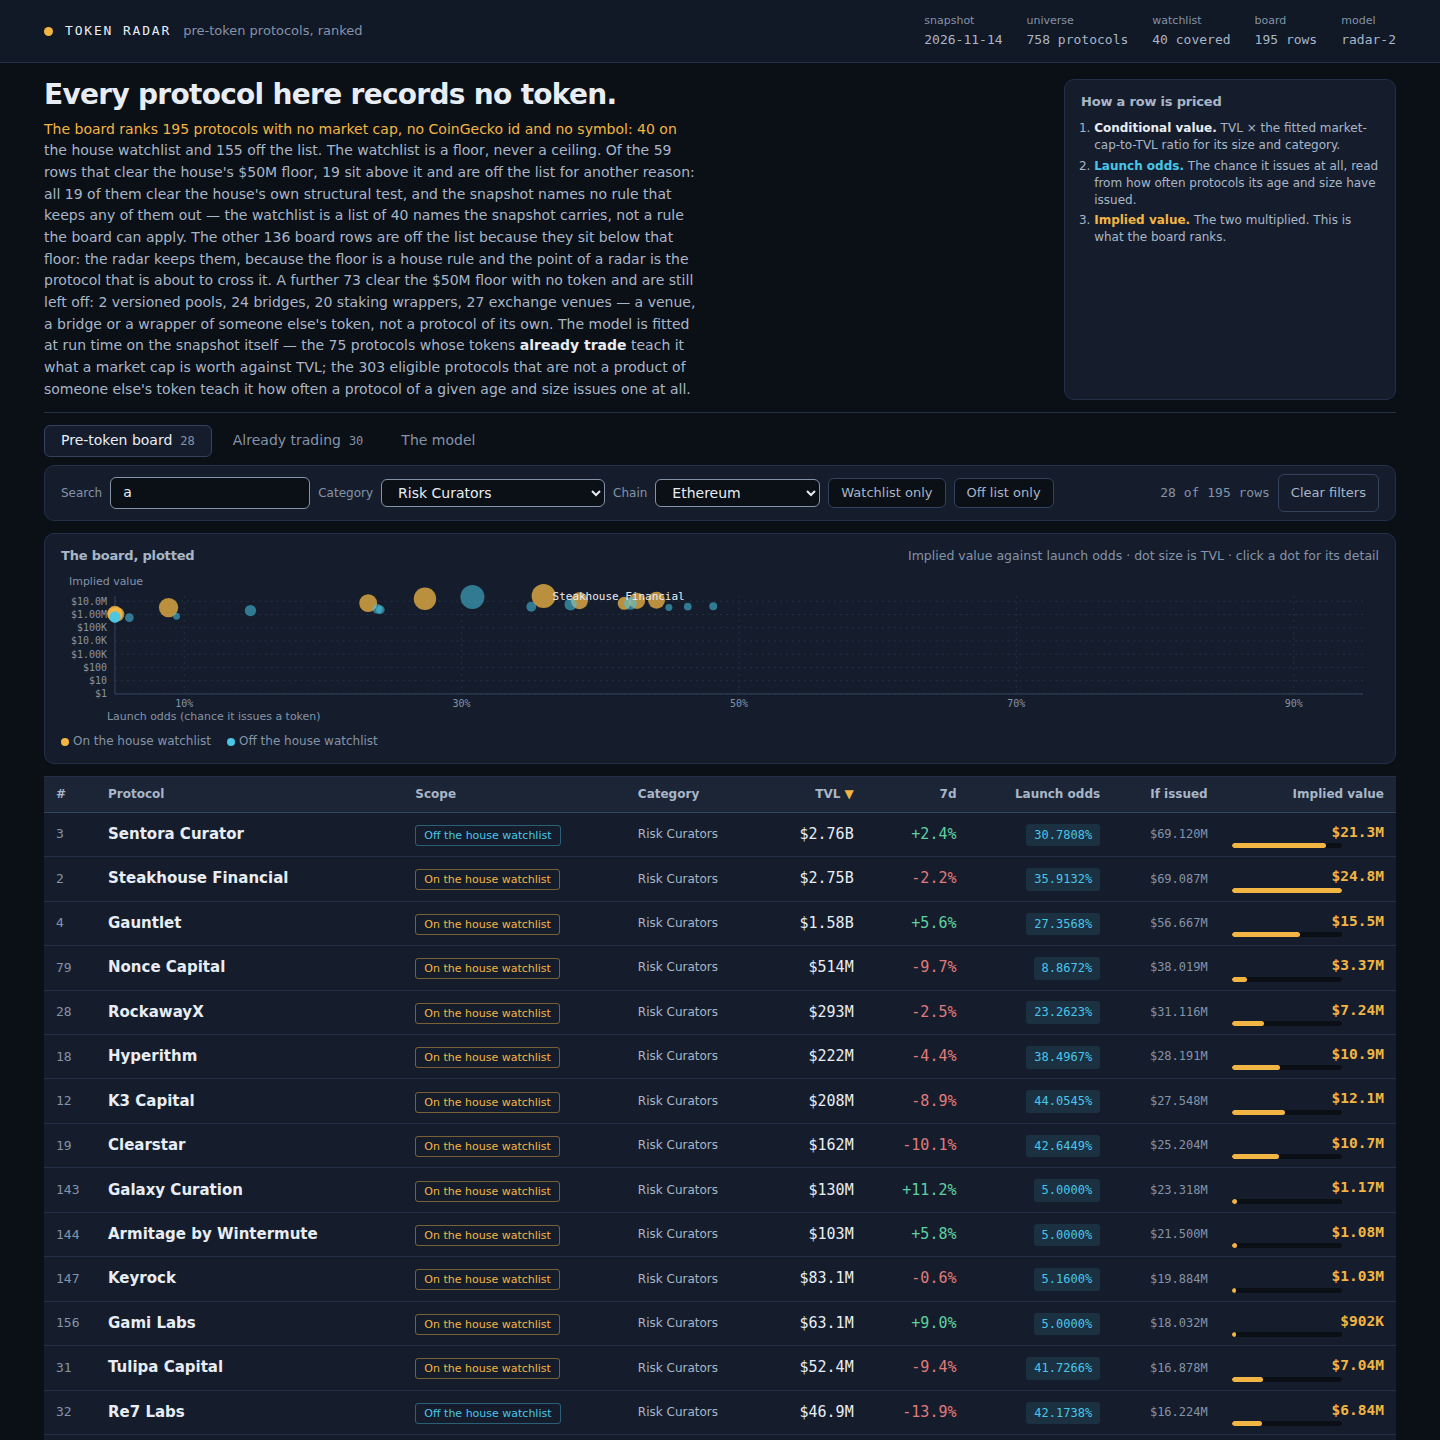
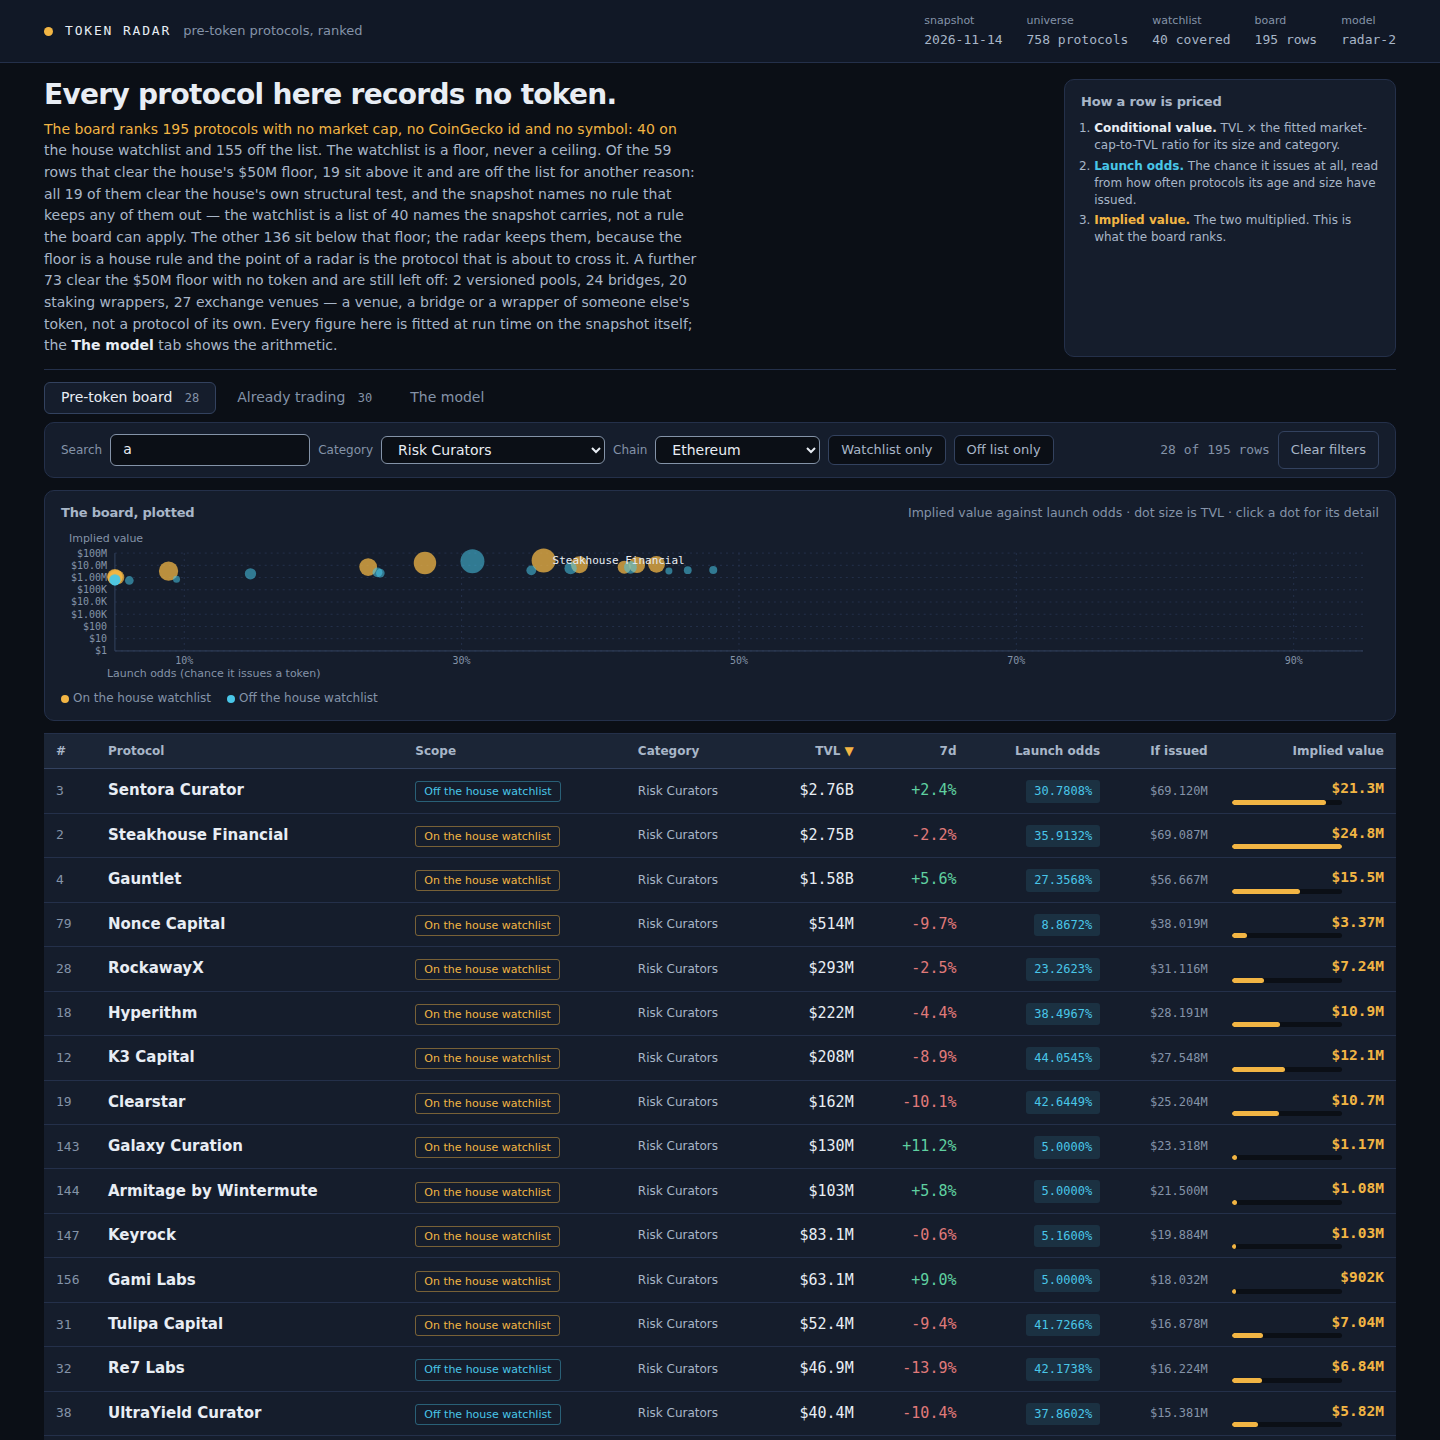
Shorten the board's lede and re-shoot the screenshots
The board's lede ran 1,208 characters and 13 lines at desktop width.
Its last two sentences described the two fits, which the "The model"
tab already covers in full. Replaced with one line pointing at that
tab: 974 characters, 11 lines, and the table starts 43px higher.

At a phone's width (390px) the lede ran 27 lines and pushed the table
1,785px down. It now runs 21 lines and the table starts at 1,655px.
The page was checked at that width for the first time: no document
overflow, the table scrolls inside its own wrapper, no text under 11px.

The three stored screenshots still carried the old lede -- they are
hand-held images copied into the build, not rendered at build time.
Re-shot all three from the current build; each lands in the 300-350 KB
band.

The board is byte-identical: the change is copy, not arithmetic.

Changed region(s): [[0.0312, 0.1562, 0.9688, 1.0]]

diff --git a/lib/model.ts b/lib/model.ts
@@ -1824,7 +1824,7 @@ export function buildRadar(snapshot: Snapshot, cal: Calibration): { board: Board
     ' sit above it and are off the list for another reason: all ' + facts.off_list_above_floor_no_reason +
     ' of them clear the house\'s own structural test, and the snapshot names no rule that keeps any of them out — the watchlist is a list of ' +
     snapshot.watchlist.length + ' names the snapshot carries, not a rule the board can apply. ' +
-    'The other ' + offListBelow + ' board rows are off the list because they sit below that floor: the radar keeps them, because the floor is a house rule and the point of a radar is the protocol that is about to cross it.';
+    'The other ' + offListBelow + ' sit below that floor; the radar keeps them, because the floor is a house rule and the point of a radar is the protocol that is about to cross it.';
   const reasonNames: Record<string, string> = {
     exchanges: 'exchange venues', bridges: 'bridges', staking: 'staking wrappers',
     versioned: 'versioned pools', wrapped: 'wrapped or staked names',
@@ -1848,9 +1848,7 @@ export function buildRadar(snapshot: Snapshot, cal: Calibration): { board: Board
       ' off the list. The watchlist is a floor, never a ceiling. ' + sep + ' ' +
       'A further ' + facts.off_total + ' clear the ' + FLOOR + ' floor with no token and are still left off: ' +
       offText + ' — a venue, a bridge or a wrapper of someone else\'s token, not a protocol of its own. ' +
-      'The model is fitted at run time on the snapshot itself — the ' + cal.cohort_size +
-      ' protocols whose tokens <strong>already trade</strong> teach it what a market cap is worth against TVL; ' +
-      'the ' + cal.universe_size + ' eligible protocols that are not a product of someone else\'s token teach it how often a protocol of a given age and size issues one at all.',
+      'Every figure here is fitted at run time on the snapshot itself; the <strong>The model</strong> tab shows the arithmetic.',
     live_lede:
       'The board ranks ' + board.length + ' protocols with no market cap, no CoinGecko id and no symbol. ' +
       'This tab holds the other side of the line: the ' + live.length + ' largest of the ' + facts.live_candidates +
